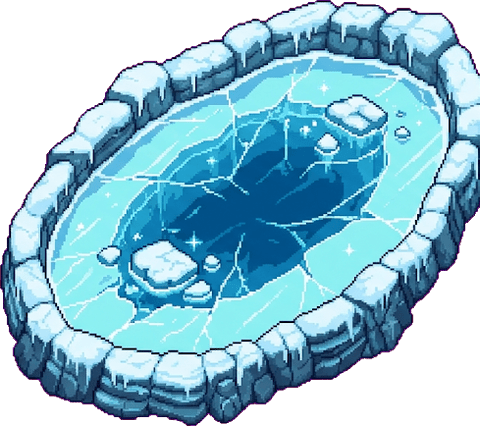
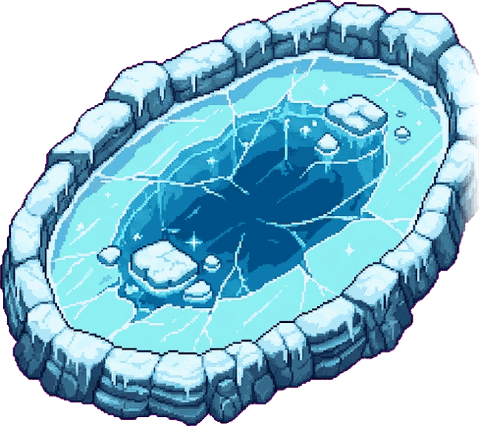
v227 꾸민 맵 렉 줄임(그림 미리 줄이기)·이순신 던전 부서진 배·해초밭·잘린 그림 9장 고침

Changed region(s): [[0.9375, 0.1221, 1.0, 0.5493], [0.5938, 0.5188, 0.625, 0.5493]]

diff --git a/index.html b/index.html
@@ -26,7 +26,7 @@
 <link rel="stylesheet" href="https://fonts.googleapis.com/css2?family=Noto+Serif+KR:wght@900&text=%E6%A5%9A%E6%BC%A2%E8%BB%8A%E5%8C%85%E9%A6%AC%E8%B1%A1%E5%A3%AB%E5%8D%92%E5%85%B5&display=swap">
 <!--HEAD-END-->
 <!-- ?v= 숫자: 업데이트할 때마다 sw.js 의 VERSION 과 함께 1씩 올리기 (브라우저가 옛 파일을 쓰지 않도록) -->
-<link rel="stylesheet" href="css/style.css?v=226">
+<link rel="stylesheet" href="css/style.css?v=227">
 <!-- 앱 설치(PWA) -->
 <link rel="manifest" href="manifest.webmanifest">
 <meta name="theme-color" content="#161C3A">
@@ -99,8 +99,8 @@
       <input id="su-pw2" name="password2" type="password" autocomplete="new-password" required>
       <span class="lbl-like">기본 아바타 <small>나중에 상점에서 바꿀 수 있어요</small></span>
       <div class="gpick" id="suGender" role="radiogroup" aria-label="기본 아바타">
-        <button type="button" role="radio" aria-checked="false" data-g="m"><img src="avatar/body/s1_m_f.png?v=226" alt="" width="54" height="117"><b>남자</b></button>
-        <button type="button" role="radio" aria-checked="false" data-g="f"><img src="avatar/body/s1_f_f.png?v=226" alt="" width="53" height="115"><b>여자</b></button>
+        <button type="button" role="radio" aria-checked="false" data-g="m"><img src="avatar/body/s1_m_f.png?v=227" alt="" width="54" height="117"><b>남자</b></button>
+        <button type="button" role="radio" aria-checked="false" data-g="f"><img src="avatar/body/s1_f_f.png?v=227" alt="" width="53" height="115"><b>여자</b></button>
       </div>
       <p class="err" id="signupErr" hidden></p>
       <button class="btn btn-primary btn-block" type="submit">가입하고 시작하기</button>
@@ -123,91 +123,91 @@
 <!-- Supabase 연결 시 사용 (config.js가 비어 있으면 체험 모드) -->
 <script src="https://cdn.jsdelivr.net/npm/@supabase/supabase-js@2.117.3/dist/umd/supabase.js"></script>
 <!-- 순서 중요: 설정 → 공통 → 아바타 → 로그인/전적 → 게임(장르 폴더별 settings.js + game.js) → 화면 -->
-<script src="js/config.js?v=226"></script>
-<script src="games/common/shared.js?v=226"></script>
-<script src="avatar/avatar.js?v=226"></script>
-<script src="js/furniture.js?v=226"></script>
-<script src="js/filter.js?v=226"></script>
-<script src="js/gamehub.js?v=226"></script>
-<script src="js/banner.js?v=226"></script>
-<script src="js/presence.js?v=226"></script>
-<script src="games/puzzle/blocks/settings.js?v=226"></script>
-<script src="games/puzzle/blocks/game.js?v=226"></script>
-<script src="games/puzzle/battle/settings.js?v=226"></script>
-<script src="games/puzzle/battle/game.js?v=226"></script>
-<script src="games/puzzle/p512/settings.js?v=226"></script>
-<script src="games/puzzle/p512/game.js?v=226"></script>
-<script src="games/puzzle/ultimate/settings.js?v=226"></script>
-<script src="games/puzzle/ultimate/game.js?v=226"></script>
-<script src="games/puzzle/2048/settings.js?v=226"></script>
-<script src="games/puzzle/2048/game.js?v=226"></script>
-<script src="games/arcade/snake/settings.js?v=226"></script>
-<script src="games/arcade/snake/game.js?v=226"></script>
-<script src="games/arcade/dodge/settings.js?v=226"></script>
-<script src="games/arcade/dodge/game.js?v=226"></script>
-<script src="games/common/board.js?v=226"></script>
-<script src="games/board/baduk/settings.js?v=226"></script>
-<script src="games/board/baduk/game.js?v=226"></script>
-<script src="games/board/omok/settings.js?v=226"></script>
-<script src="games/board/omok/game.js?v=226"></script>
-<script src="games/board/janggi/settings.js?v=226"></script>
-<script src="games/board/janggi/game.js?v=226"></script>
-<script src="games/board/chess/settings.js?v=226"></script>
-<script src="games/board/chess/game.js?v=226"></script>
-<script src="games/board/alkkagi/settings.js?v=226"></script>
-<script src="games/board/alkkagi/game.js?v=226"></script>
-<script src="games/board/code/settings.js?v=226"></script>
-<script src="games/board/code/game.js?v=226"></script>
-<script src="games/sports/sport.js?v=226"></script>
-<script src="games/sports/volley/settings.js?v=226"></script>
-<script src="games/sports/volley/game.js?v=226"></script>
-<script src="games/sports/tennis/settings.js?v=226"></script>
-<script src="games/sports/tennis/game.js?v=226"></script>
-<script src="games/sports/fight/settings.js?v=226"></script>
-<script src="games/sports/fight/game.js?v=226"></script>
-<script src="games/action/mecha/settings.js?v=226"></script>
-<script src="games/action/mecha/game.js?v=226"></script>
-<script src="games/shooting/sky/settings.js?v=226"></script>
-<script src="games/shooting/sky/game.js?v=226"></script>
-<script src="games/study/common.js?v=226"></script>
-<script src="games/study/wordchain/settings.js?v=226"></script>
-<script src="games/study/wordchain/game.js?v=226"></script>
-<script src="games/study/typing/settings.js?v=226"></script>
-<script src="games/study/typing/game.js?v=226"></script>
-<script src="games/study/idiom/data.js?v=226"></script>
-<script src="games/study/idiom/settings.js?v=226"></script>
-<script src="games/study/idiom/game.js?v=226"></script>
-<script src="games/study/quiz.js?v=226"></script>
-<script src="games/study/english/data.js?v=226"></script>
-<script src="games/study/english/settings.js?v=226"></script>
-<script src="games/study/english/game.js?v=226"></script>
-<script src="games/study/history/data.js?v=226"></script>
-<script src="games/study/history/settings.js?v=226"></script>
-<script src="games/study/history/game.js?v=226"></script>
-<script src="games/study/gugu/settings.js?v=226"></script>
-<script src="games/study/gugu/game.js?v=226"></script>
-<script src="games/puzzle/mines/settings.js?v=226"></script>
-<script src="games/puzzle/mines/game.js?v=226"></script>
-<script src="games/action/rpg/data.js?v=226"></script>
-<script src="games/action/rpg/settings.js?v=226"></script>
-<script src="games/action/rpg/world.js?v=226"></script>
-<script src="games/action/rpg/room.js?v=226"></script>
-<script src="games/action/rpg/net.js?v=226"></script>
-<script src="games/action/rpg/fx.js?v=226"></script>
-<script src="games/action/rpg/vfx.js?v=226"></script>
-<script src="games/action/rpg/game.js?v=226"></script>
-<script src="games/action/scfight/settings.js?v=226"></script>
-<script src="games/action/scfight/game.js?v=226"></script>
-<script src="js/shop.js?v=226"></script>
-<script src="js/closet.js?v=226"></script>
-<script src="js/room.js?v=226"></script>
-<script src="js/social.js?v=226"></script>
-<script src="js/admin.js?v=226"></script>
-<script src="js/mapedit.js?v=226"></script>
-<script src="js/testgames.js?v=226"></script>
-<script src="js/updates.js?v=226"></script>
-<script src="js/fullscreen.js?v=226"></script>
-<script src="js/app.js?v=226"></script>
-<script src="js/pwa.js?v=226"></script>
+<script src="js/config.js?v=227"></script>
+<script src="games/common/shared.js?v=227"></script>
+<script src="avatar/avatar.js?v=227"></script>
+<script src="js/furniture.js?v=227"></script>
+<script src="js/filter.js?v=227"></script>
+<script src="js/gamehub.js?v=227"></script>
+<script src="js/banner.js?v=227"></script>
+<script src="js/presence.js?v=227"></script>
+<script src="games/puzzle/blocks/settings.js?v=227"></script>
+<script src="games/puzzle/blocks/game.js?v=227"></script>
+<script src="games/puzzle/battle/settings.js?v=227"></script>
+<script src="games/puzzle/battle/game.js?v=227"></script>
+<script src="games/puzzle/p512/settings.js?v=227"></script>
+<script src="games/puzzle/p512/game.js?v=227"></script>
+<script src="games/puzzle/ultimate/settings.js?v=227"></script>
+<script src="games/puzzle/ultimate/game.js?v=227"></script>
+<script src="games/puzzle/2048/settings.js?v=227"></script>
+<script src="games/puzzle/2048/game.js?v=227"></script>
+<script src="games/arcade/snake/settings.js?v=227"></script>
+<script src="games/arcade/snake/game.js?v=227"></script>
+<script src="games/arcade/dodge/settings.js?v=227"></script>
+<script src="games/arcade/dodge/game.js?v=227"></script>
+<script src="games/common/board.js?v=227"></script>
+<script src="games/board/baduk/settings.js?v=227"></script>
+<script src="games/board/baduk/game.js?v=227"></script>
+<script src="games/board/omok/settings.js?v=227"></script>
+<script src="games/board/omok/game.js?v=227"></script>
+<script src="games/board/janggi/settings.js?v=227"></script>
+<script src="games/board/janggi/game.js?v=227"></script>
+<script src="games/board/chess/settings.js?v=227"></script>
+<script src="games/board/chess/game.js?v=227"></script>
+<script src="games/board/alkkagi/settings.js?v=227"></script>
+<script src="games/board/alkkagi/game.js?v=227"></script>
+<script src="games/board/code/settings.js?v=227"></script>
+<script src="games/board/code/game.js?v=227"></script>
+<script src="games/sports/sport.js?v=227"></script>
+<script src="games/sports/volley/settings.js?v=227"></script>
+<script src="games/sports/volley/game.js?v=227"></script>
+<script src="games/sports/tennis/settings.js?v=227"></script>
+<script src="games/sports/tennis/game.js?v=227"></script>
+<script src="games/sports/fight/settings.js?v=227"></script>
+<script src="games/sports/fight/game.js?v=227"></script>
+<script src="games/action/mecha/settings.js?v=227"></script>
+<script src="games/action/mecha/game.js?v=227"></script>
+<script src="games/shooting/sky/settings.js?v=227"></script>
+<script src="games/shooting/sky/game.js?v=227"></script>
+<script src="games/study/common.js?v=227"></script>
+<script src="games/study/wordchain/settings.js?v=227"></script>
+<script src="games/study/wordchain/game.js?v=227"></script>
+<script src="games/study/typing/settings.js?v=227"></script>
+<script src="games/study/typing/game.js?v=227"></script>
+<script src="games/study/idiom/data.js?v=227"></script>
+<script src="games/study/idiom/settings.js?v=227"></script>
+<script src="games/study/idiom/game.js?v=227"></script>
+<script src="games/study/quiz.js?v=227"></script>
+<script src="games/study/english/data.js?v=227"></script>
+<script src="games/study/english/settings.js?v=227"></script>
+<script src="games/study/english/game.js?v=227"></script>
+<script src="games/study/history/data.js?v=227"></script>
+<script src="games/study/history/settings.js?v=227"></script>
+<script src="games/study/history/game.js?v=227"></script>
+<script src="games/study/gugu/settings.js?v=227"></script>
+<script src="games/study/gugu/game.js?v=227"></script>
+<script src="games/puzzle/mines/settings.js?v=227"></script>
+<script src="games/puzzle/mines/game.js?v=227"></script>
+<script src="games/action/rpg/data.js?v=227"></script>
+<script src="games/action/rpg/settings.js?v=227"></script>
+<script src="games/action/rpg/world.js?v=227"></script>
+<script src="games/action/rpg/room.js?v=227"></script>
+<script src="games/action/rpg/net.js?v=227"></script>
+<script src="games/action/rpg/fx.js?v=227"></script>
+<script src="games/action/rpg/vfx.js?v=227"></script>
+<script src="games/action/rpg/game.js?v=227"></script>
+<script src="games/action/scfight/settings.js?v=227"></script>
+<script src="games/action/scfight/game.js?v=227"></script>
+<script src="js/shop.js?v=227"></script>
+<script src="js/closet.js?v=227"></script>
+<script src="js/room.js?v=227"></script>
+<script src="js/social.js?v=227"></script>
+<script src="js/admin.js?v=227"></script>
+<script src="js/mapedit.js?v=227"></script>
+<script src="js/testgames.js?v=227"></script>
+<script src="js/updates.js?v=227"></script>
+<script src="js/fullscreen.js?v=227"></script>
+<script src="js/app.js?v=227"></script>
+<script src="js/pwa.js?v=227"></script>
 </body>
 </html>

diff --git a/games/action/rpg/world.js b/games/action/rpg/world.js
@@ -284,14 +284,14 @@
    *  ② 꽃밭·버섯·통나무 같은 땅에 붙은 것은 바닥 그림(map.ground)에 한 번만 구워 넣음 (매 장면 그리지 않음)
    *  ③ 마을: 우물·장독대·석등·장승·짚더미 · 나무·바위가 가로로 3칸 이어진 곳은 돌담 */
   const RDECO = [
-    { tree: [['dc_zelkova', 150], ['dc_persimmon', 120], ['dc_ginkgo', 130], ['jj_maple', 120]], rock: [], flat: [['dc_flowerbed', 96, 10], ['jj_dandelion', 60, 14]], farm: true },   // 0 의주 들판
-    { tree: [['dc_bamboo', 130], ['dc_oak', 150], ['jj_pine1', 140], ['jj_pine2', 140]], rock: [], flat: [['dc_mushroom', 80, 8], ['dc_log', 96, 4], ['dc_flowerbed', 90, 4]] },   // 1 평양 숲
+    { tree: [['dc_zelkova', 150], ['dc_persimmon', 120], ['dc_ginkgo', 130], ['jj_maple', 120]], rock: [], flat: [['jj_forsythia', 64, 10], ['jj_dandelion', 60, 14]], farm: true },   // 0 의주 들판
+    { tree: [['dc_bamboo', 130], ['dc_oak', 150], ['jj_pine1', 140], ['jj_pine2', 140]], rock: [], flat: [['dc_mushroom', 80, 8], ['dc_log', 96, 4], ['jj_dandelion', 56, 6]] },   // 1 평양 숲
     { tree: [['dc_swamptree', 140], ['jj_willow', 140]], rock: [], flat: [['dc_reed', 88, 12], ['dc_log', 96, 4]] },   // 2 한양 늪
     { tree: [['dc_desertshrub', 110], ['dc_drytree', 120]], rock: [['dc_sandpillar', 100]], flat: [] },   // 3 충주 모래
     { tree: [['dc_cliffpine', 140], ['jj_pine2', 130]], rock: [['dc_boulders', 110]], flat: [['jj_forsythia', 70, 6]] },   // 4 남원 바위산
     { tree: [['dc_snowpine', 145], ['dc_birch', 130]], rock: [['dc_icerock', 100]], flat: [] },   // 5 진주 눈
-    { tree: [['dc_glowshroom', 112]], rock: [['dc_crystal', 100]], flat: [['dc_mushroom', 76, 6]] },   // 6 통영 수정 동굴
-    { tree: [['jj_cherry1', 145], ['jj_cherry2', 145], ['dc_magnolia', 140], ['dc_cloudbush', 110]], rock: [], flat: [['dc_flowerbed', 96, 10]] },   // 7 동래 하늘 정원
+    { tree: [['dc_glowshroom', 96]], rock: [['dc_crystal', 100]], flat: [['dc_mushroom', 76, 6]] },   // 6 통영 수정 동굴
+    { tree: [['jj_cherry1', 145], ['jj_cherry2', 145], ['dc_magnolia', 140], ['dc_cloudbush', 110]], rock: [], flat: [['jj_forsythia', 64, 8], ['jj_dandelion', 56, 10]] },   // 7 동래 하늘 정원
     { tree: [['dc_charred', 130]], rock: [['dc_lavarock', 100]], flat: [] }   // 8 부산 화산
   ];
   const VPROP = [['dc_well', 100, 1], ['dc_jars', 104, 2], ['dc_lantern', 70, 3], ['dc_jangseung', 84, 1], ['dc_hay', 96, 2]];
@@ -303,7 +303,7 @@
     7: HL([['hl_tree', 130]], [['hl_stele', 90], ['hl_swordrock', 105]]), 8: HL([['hl_tree', 130]], [['hl_cauldron', 105], ['hl_stele', 90]]),
     9: HL([['dc_charred', 130], ['hl_tree', 120]], [['dc_boulders', 105]]), 10: HL([['hl_tree', 130]], [['hl_soulfire', 70], ['hl_stele', 90]]) };
   const SXX = { rock: [['sx_pillar', 90], ['sx_statue', 90], ['sx_brazier', 72]], flat: [['sx_ruinflat', 100, 6]] };
-  const YSX = { rock: [['ys_cannon', 100], ['ys_barrels', 96], ['ys_anchor', 90]], flat: [] };
+  const YSX = { rock: [['ys_cannon', 100], ['ys_barrels', 96], ['ys_anchor', 90], ['ys_wreck', 130]], flat: [['ys_seaweed', 100, 6]] };
   function regionDeco(map) {
     const M = map.M; if (!M || M.jj || (M.def && M.def.art) || (M.kind !== 'field' && M.kind !== 'village')) return;
     let T = RDECO[M.region]; if (!T) return;
@@ -320,26 +320,26 @@
       for (let ty = 2; ty < h - 2; ty++) for (let tx = 2; tx < w - 4; tx++) {
         if (!(solidAt2(tx, ty) && solidAt2(tx + 1, ty) && solidAt2(tx + 2, ty)) || ['a', 'b', 'c'].some((_, i) => drop.has((tx + i) + ',' + ty)) || rnd() > 0.35) continue;
         const os = [0, 1, 2].map(i => byTile.get((tx + i) + ',' + ty)); if (os.some(o => !o)) continue;
-        os.forEach(o => drop.add(o.tx + ',' + o.ty)); add.push(mk('dc_wall', 3 * TS + 10, tx + 1, ty, { flip: false })); tx += 3;
+        os.forEach(o => drop.add(o.tx + ',' + o.ty)); add.push(mk('dc_wall', 3 * TS + 10, tx + 1, ty, { flip: false, still: true })); tx += 3;
       }
       const cand = [...byTile.values()].filter(o => !drop.has(o.tx + ',' + o.ty) && o.tx > 3 && o.tx < w - 4 && o.ty > 2 && o.ty < h - 3).sort(() => rnd() - 0.5);
-      VPROP.forEach(([im, S, n]) => { for (let i = 0; i < n && cand.length; i++) { const o = cand.pop(); drop.add(o.tx + ',' + o.ty); add.push(mk(im, S, o.tx, o.ty)); } });
+      VPROP.forEach(([im, S, n]) => { for (let i = 0; i < n && cand.length; i++) { const o = cand.pop(); drop.add(o.tx + ',' + o.ty); add.push(mk(im, S, o.tx, o.ty, { still: true })); } });
     } else if (T.farm && rnd() < 0.6) {   // 들판에 짚더미·장승 하나씩
       const cand = [...byTile.values()].filter(o => o.tx > 4 && o.tx < w - 5 && at(o.tx, o.ty) === 3).sort(() => rnd() - 0.5);
       [['dc_hay', 96], ['dc_jangseung', 84]].forEach(([im, S]) => { const o = cand.pop(); if (o) { drop.add(o.tx + ',' + o.ty); add.push(mk(im, S, o.tx, o.ty)); } });
     }
     // ① 나무·바위 그림 바꾸기 (나무 55% · 바위 45%, 바로 옆 칸끼리는 겹치지 않게)
-    const used = [];
-    byTile.forEach(o => {
+    const used = [], cap = { 2: 55, 3: 28 }, got = { 2: 0, 3: 0 };   // v227 렉 줄이기: 한 맵에 큰 나무 그림 55개 · 바위 소품 28개까지
+    [...byTile.values()].sort(() => rnd() - 0.5).forEach(o => {   // 섞어서 고르게 (위쪽에만 몰리지 않게)
       const k = o.tx + ',' + o.ty; if (drop.has(k)) return;
-      const v = at(o.tx, o.ty), L = v === 2 ? T.tree : T.rock; if (!L.length || rnd() > (v === 2 ? 0.55 : 0.45)) return;
+      const v = at(o.tx, o.ty), L = v === 2 ? T.tree : T.rock; if (!L.length || got[v] >= cap[v] || rnd() > (v === 2 ? 0.55 : 0.45)) return; got[v]++;
       if (used.some(([a, b]) => Math.abs(a - o.tx) + Math.abs(b - o.ty) < 2)) return;
-      used.push([o.tx, o.ty]); drop.add(k); const [im, S] = pickW(L); add.push(mk(im, S * (0.85 + rnd() * 0.3), o.tx, o.ty));
+      used.push([o.tx, o.ty]); drop.add(k); const [im, S] = pickW(L); add.push(mk(im, S * (0.85 + rnd() * 0.3), o.tx, o.ty, v === 3 ? { still: true } : null));   // 바위·소품은 흔들리지 않음
     });
     map.objs = map.objs.filter(o => !(o.alt && o.tx != null && !o.sign && drop.has(o.tx + ',' + o.ty))).concat(add);
     // ② 땅에 붙은 것 → 바닥 그림에 굽기 (풀밭 칸만 · 길·물·건물 칸 제외)
     const flat = [];
-    T.flat.concat(vil ? [['dc_flowerbed', 84, 6]] : []).forEach(([im, S, n]) => { for (let i = 0, t = 0; i < n && t < n * 10; t++) {
+    T.flat.concat(vil ? [['jj_forsythia', 60, 6]] : [])   /* v227 꽃밭 그림은 작게 줄이면 흙바닥처럼 보여서 개나리·민들레 덤불로 */.forEach(([im, S, n]) => { for (let i = 0, t = 0; i < n && t < n * 10; t++) {
       const x = 3 + Math.floor(rnd() * (w - 6)), y = 3 + Math.floor(rnd() * (h - 6)); if (at(x, y) !== 0 && at(x, y) !== 5) continue;
       if ([[1, 0], [-1, 0], [0, 1], [0, -1]].some(([a, b]) => at(x + a, y + b) === 1 || at(x + a, y + b) >= 6)) continue; i++;
       const s2 = S * (0.8 + rnd() * 0.4), bx = x * TS + 16 + (rnd() - 0.5) * 16, by = y * TS + 26; flat.push({ im, dw: s2, flip: rnd() < 0.5, bx, by }); } });

diff --git a/games/action/rpg/game.js b/games/action/rpg/game.js
@@ -2067,6 +2067,15 @@
         if (Math.random() < 0.3) Fx.emit({ x: n.x + rand(-26, 26), y: n.y - rand(10, H0), vx: rand(-8, 8), vy: rand(-40, -15), g: -6, life: 1.0, size: 2.5, color: A.col });
         npcTags(c, n, top, now);
       }
+      // v227 꾸미기 그림 미리 줄여 두기 (300px 그림을 매 장면 줄여 그리면 느림 → 8px 단위 크기·좌우 뒤집기별로 한 번만 만들어 둠)
+      const DECO_C = new Map();
+      function decoBmp(name, im, dw, flip) {
+        const W = Math.max(8, Math.round(dw / 8) * 8), H = Math.round(W * im.height / im.width), k = name + '|' + W + '|' + (flip ? 1 : 0);
+        let cv = DECO_C.get(k); if (cv) return cv;
+        if (DECO_C.size > 300) DECO_C.clear();
+        cv = document.createElement('canvas'); cv.width = W; cv.height = H; const x = cv.getContext('2d'); x.imageSmoothingEnabled = true; x.imageSmoothingQuality = 'high';
+        if (flip) { x.translate(W, 0); x.scale(-1, 1); } x.drawImage(im, 0, 0, W, H); DECO_C.set(k, cv); return cv;
+      }
       function drawJjObj(c, o, now) {
         const cx = o.x + o.img.width / 2, by = o.sy;
         if (o.jjGate) {   // 진주 12시 · 진주성 던전 입구
@@ -2079,9 +2088,10 @@
         if (o.jj === 'deco') {   // v224 꾸미기 나무·꽃·연꽃
           const im = img79(o.im); if (!im) return;
           if (o.pond) { c.drawImage(im, o.x, o.y, o.pw, o.ph); return; }
-          const w = o.dw, h = w * im.height / im.width, sway = o.flat ? 0 : Math.sin(now / 1400 + o.bx * 0.01) * 0.018;
+          const bm = decoBmp(o.im, im, o.dw, o.flip), w = bm.width, h = bm.height, sway = o.flat || o.still ? 0 : Math.sin(now / 1400 + o.bx * 0.01) * 0.018;   // v227 렉 줄이기: 미리 줄여 둔 그림(크기 그대로 찍기)
           if (!o.flat && !o.noSh) { c.fillStyle = 'rgba(0,0,0,.22)'; c.beginPath(); c.ellipse(o.bx, o.by - 2, w * 0.3, w * 0.08, 0, 0, Math.PI * 2); c.fill(); }
-          c.save(); c.translate(o.bx, o.by); if (sway) c.transform(1, 0, sway, 1, 0, 0); if (o.flip) c.scale(-1, 1); c.drawImage(im, -w / 2, -h + 4, w, h); c.restore();
+          if (!sway) { c.drawImage(bm, Math.round(o.bx - w / 2), Math.round(o.by - h + 4)); return; }
+          c.save(); c.translate(o.bx, o.by); c.transform(1, 0, sway, 1, 0, 0); c.drawImage(bm, -w / 2, -h + 4); c.restore();
           return;
         }
         if (o.jj === 'lamp') {

diff --git a/js/updates.js b/js/updates.js
@@ -170,6 +170,7 @@
     { g: 'rpg', at: '2026-11-28 12:00', t: '🌲 몬스터가 나무·바위·연못에 끼여 멈추던 것을 고쳤어요 (막히면 돌아가는 길을 찾아 쫓아와요)' },
     { g: 'rpg', at: '2026-11-28 17:10', t: '🛠 새 던전 준비를 계속하고 있어요 (어려운 던전이 될 거예요 · 지금은 선생님만 들어갈 수 있어요)' },
     { g: 'rpg', at: '2026-11-28 17:50', t: '🌳 모든 마을·사냥터·저승·던전이 화려해졌어요! 은행·감·대나무·눈 소나무·빛 버섯 나무, 우물·장독대·돌담, 저승 꽃·혼불 석등, 고구려 돌기둥·석상, 총통·닻 (렉 없이)' },
+    { g: 'rpg', at: '2026-11-28 23:00', t: '⚡ 꾸민 맵을 더 가볍게 (렉 줄임) · 이순신 던전에 부서진 배·해초밭 · 끝이 잘려 보이던 그림 9장 고침' },
   ];
   const MAX = 3, SHOW_MS = 5000, KEY = 'gogo.upd.';
   const NAMES = { shop: '상점', maker: '메이커', closet: '옷장' };

diff --git a/sw.js b/sw.js
@@ -2,7 +2,7 @@
  * gogo?gogo! 서비스 워커 — 앱 설치와 오프라인 플레이를 담당합니다.
  * 파일을 고친 뒤 배포할 때는 VERSION 숫자를 올려 주세요. (설치된 앱이 새 버전을 받습니다)
  */
-const VERSION = 'gogogogo-v226';
+const VERSION = 'gogogogo-v227';
 const SHELL = [
   './', './index.html', './manifest.webmanifest',
   './css/style.css',
